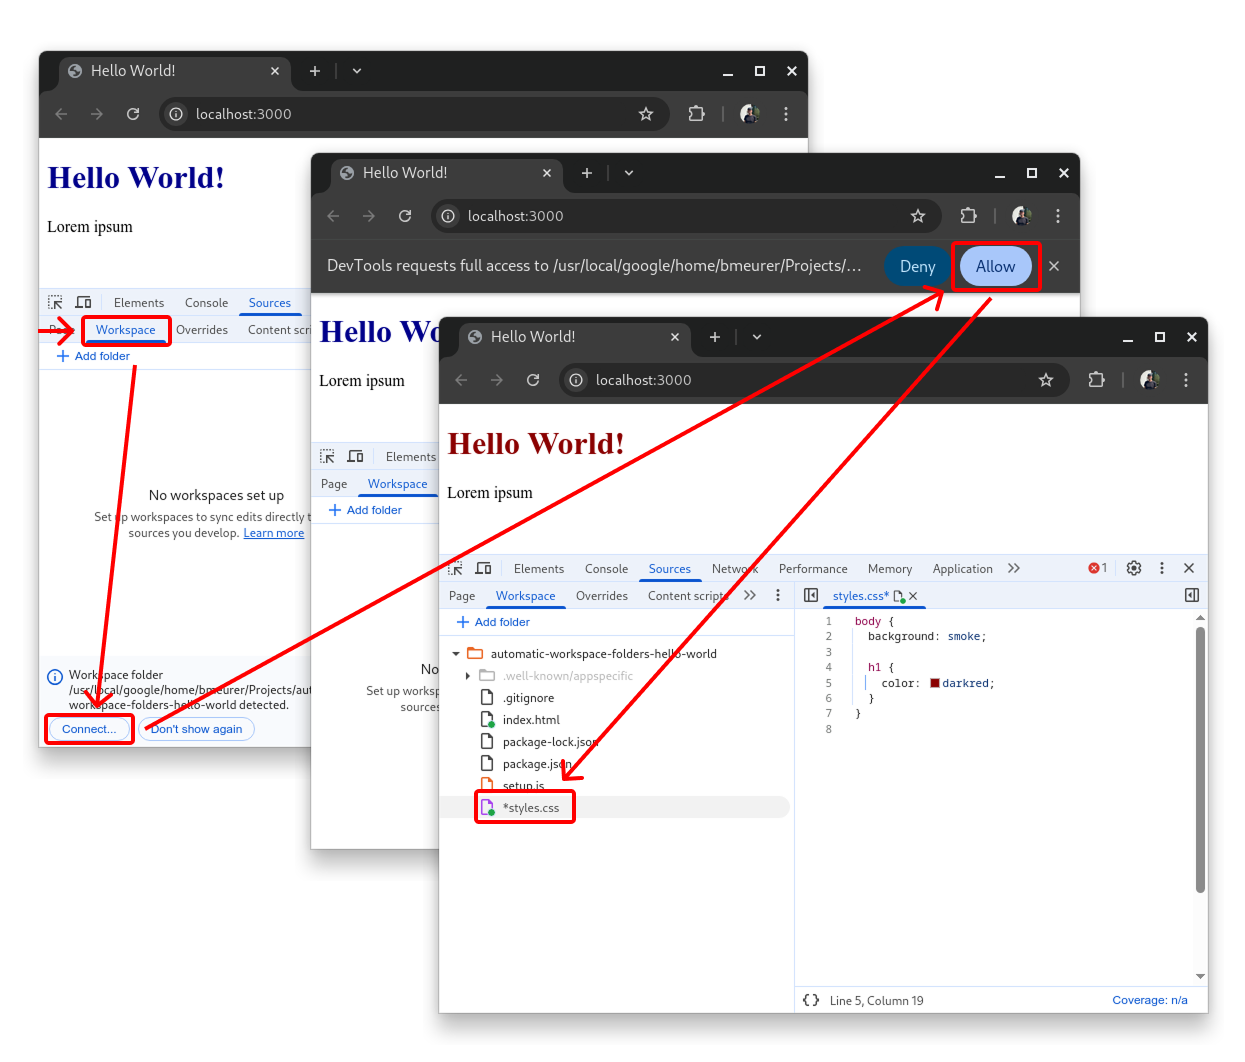
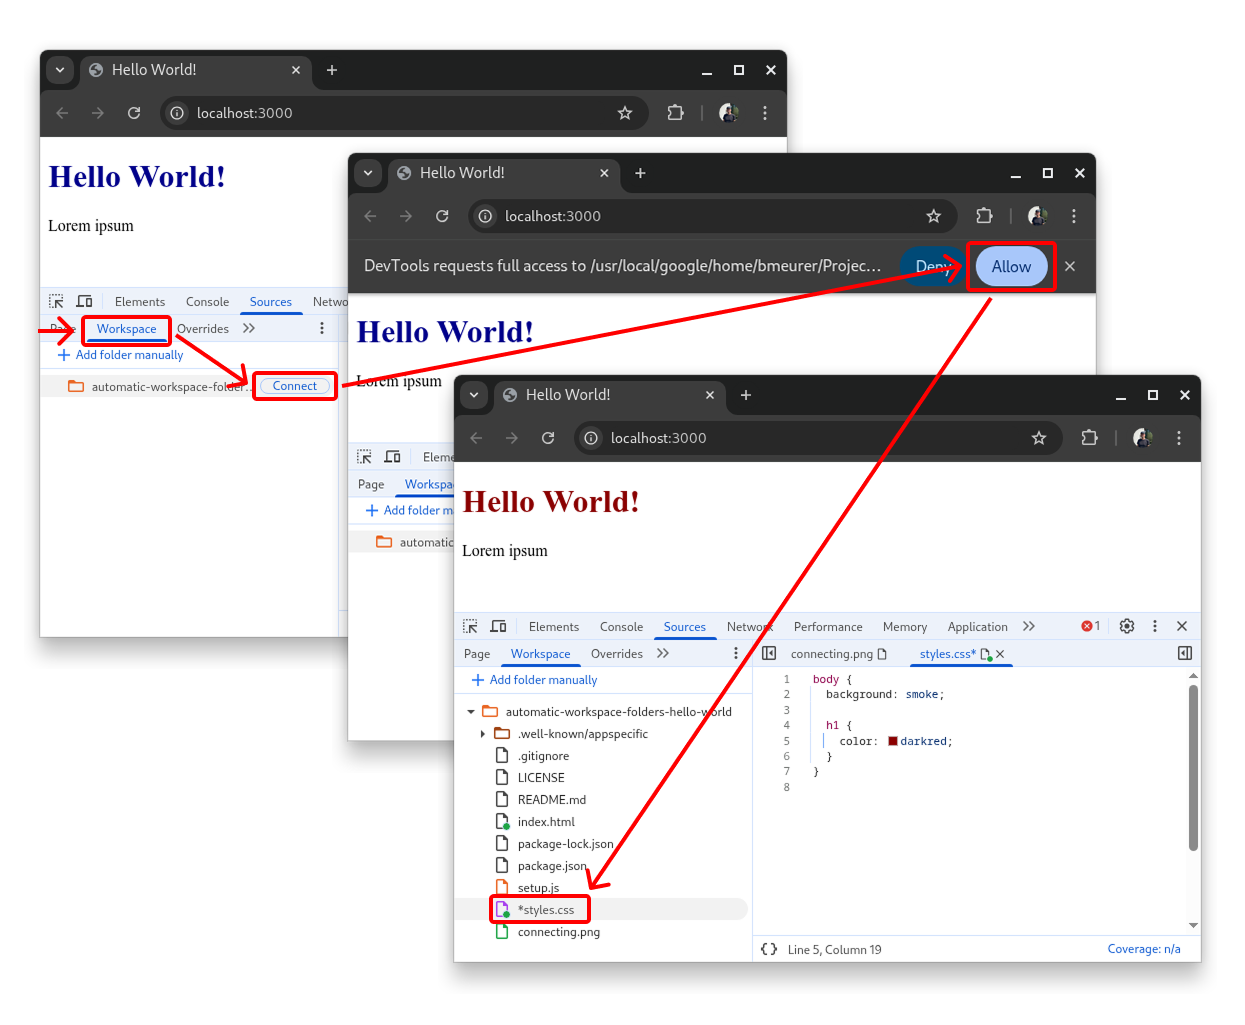
Update documentation to align with Chrome M-137 behavior.

diff --git a/README.md b/README.md
@@ -14,15 +14,23 @@ cd automatic-workspace-folders-hello-world
 npm install
 ```
 
-Afterwards open [http://localhost:3000](http://localhost:3000) in your Google Chrome (Canary),
+## Usage
+
+Run
+
+```
+npm start
+```
+
+and open [http://localhost:3000](http://localhost:3000) in your Google Chrome (Canary),
 open DevTools, and reveal the Workspace tab in the Sources panel. If you set up everything
-correctly, you'll see an infobar at the bottom offering you the option to connect the folder
-to the workspace.
+correctly, you'll see a row `automatic-workspace-folders-demo` with a _Connect_ button next
+to it in the list.
 
 ![](./connecting.png)
 
-Once you've clicked `Connect...`, Chrome will ask you to allow full access to the folder via
-a browser permission prompt. You need to click `Allow` here.
+Once you've clicked _Connect_, Chrome will ask you to allow full access to the folder via
+a browser permission prompt. You need to click _Allow_ here.
 
 If everything went well, you'll now be able to use the project folder as part of your Workspace
 and edit files from your project directly within DevTools, and also persist changes that you
